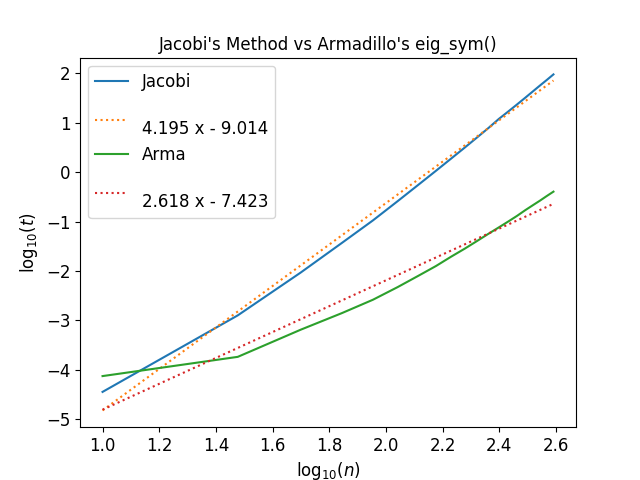
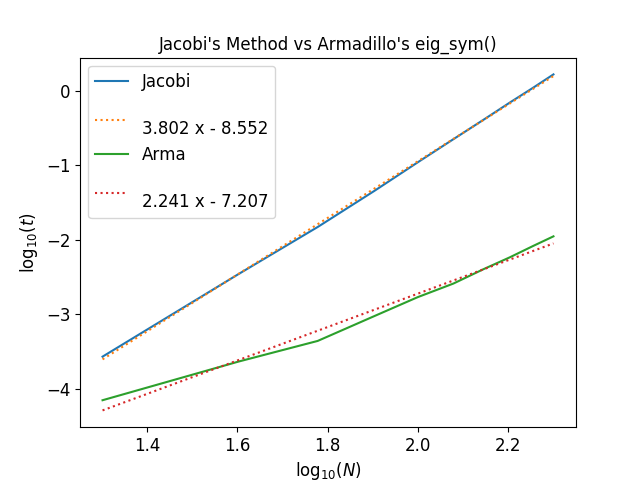
small changes

diff --git a/P2/plot.py b/P2/plot.py
@@ -30,7 +30,7 @@ if sys.argv[1] == "benchmark":
     plt.plot(n, t2)
     plt.plot(n, fit2(n), ":")
 
-    plt.gca().set_xlabel('$\\log_{10}(n)$')
+    plt.gca().set_xlabel('$\\log_{10}(N)$')
     plt.gca().set_ylabel('$\\log_{10}(t)$')
     plt.gca().set_title(title)
     plt.legend(["Jacobi", fit1, "Arma", fit2])
@@ -41,8 +41,8 @@ if sys.argv[1] == "benchmark":
     plt.plot(n, N)
     plt.plot(n, fit3(n), ":")
 
-    plt.gca().set_xlabel('$\\log_{10}(n)$')
-    plt.gca().set_ylabel('$\\log_{10}(N)$')
+    plt.gca().set_xlabel('$\\log_{10}(N)$')
+    plt.gca().set_ylabel('$\\log_{10}(n)$')
     plt.gca().set_title(title)
     plt.legend(["Number of iterations", fit3])
     fig2.savefig("./results/benchmark_iter.png")
@@ -62,7 +62,7 @@ if sys.argv[1] == "eigenvectors":
     plt.plot(x, y2**2)
 
     plt.gca().set_xlabel('$\\rho$')
-    plt.gca().set_ylabel('Probability')
+    plt.gca().set_ylabel('Probability, |$\\Psi|^2')
     plt.gca().set_title(title)
 
     plt.gcf().set_tight_layout(True)

diff --git a/P2/benchmark.cpp b/P2/benchmark.cpp
@@ -17,11 +17,11 @@ int main()
     vec eigval;
     mat eigvec;
     int N;
-    int m = 1;
+    int m = 10;
     double average_time_jacobi = 0;
     double average_time_arma = 0;
     //Runs Jacobis method and Armadillos eig_sym n = 10, 20, ..., 120
-    for(int n = 10; n <= 400; n += 20)
+    for(int n = 20; n <= 200; n += 20)
     {
         //Runs the methods m = 10 times for each n, then averages the times
         for(int i = 0; i < m; i++)
